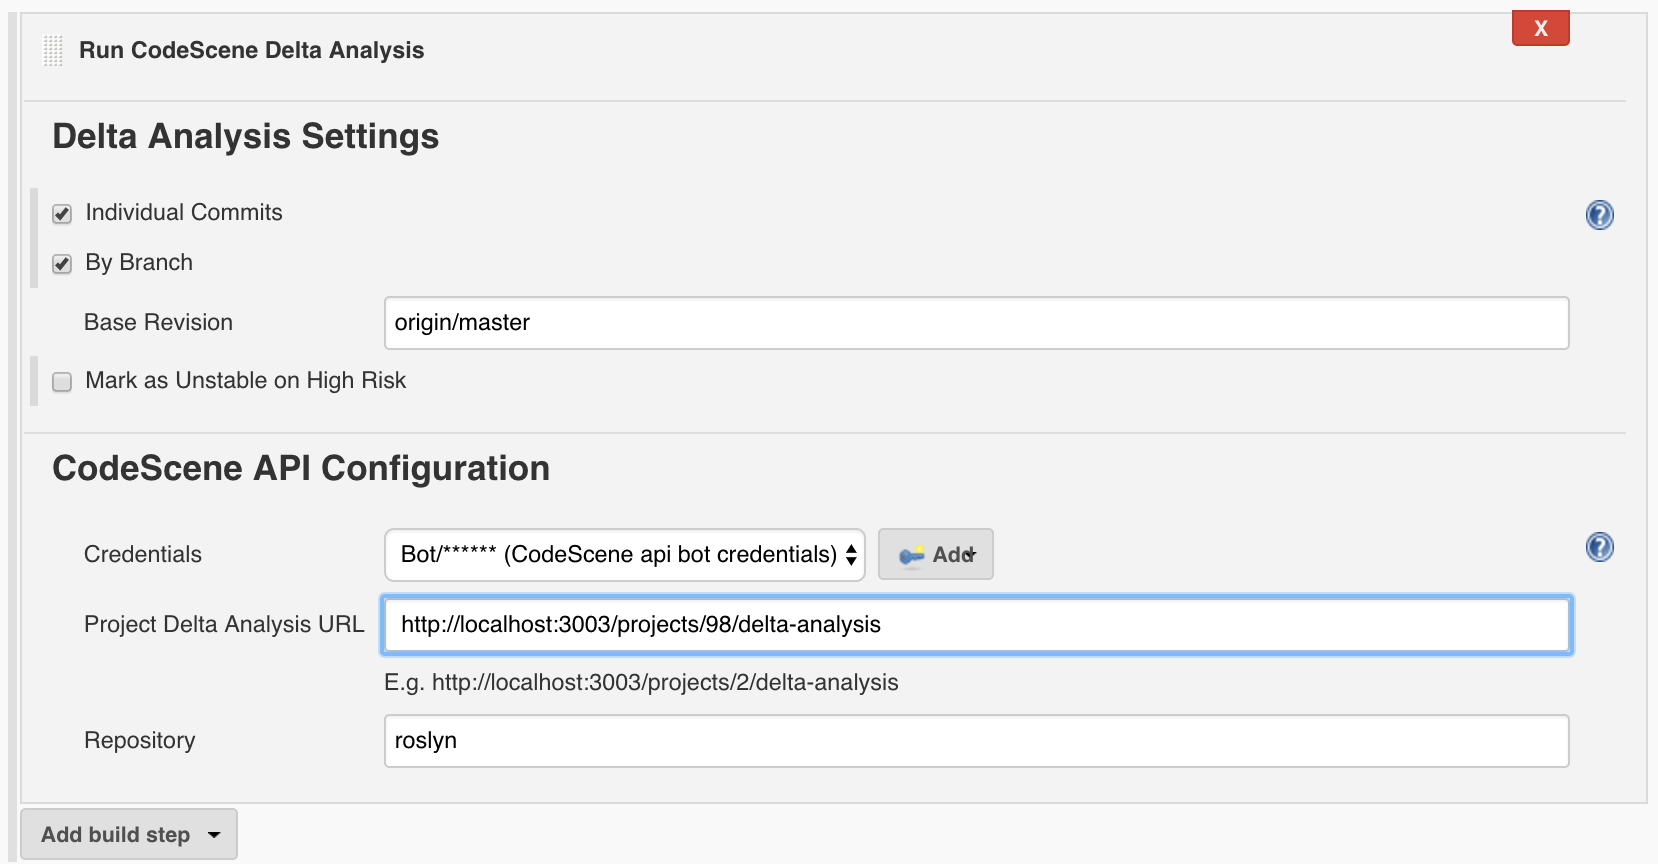
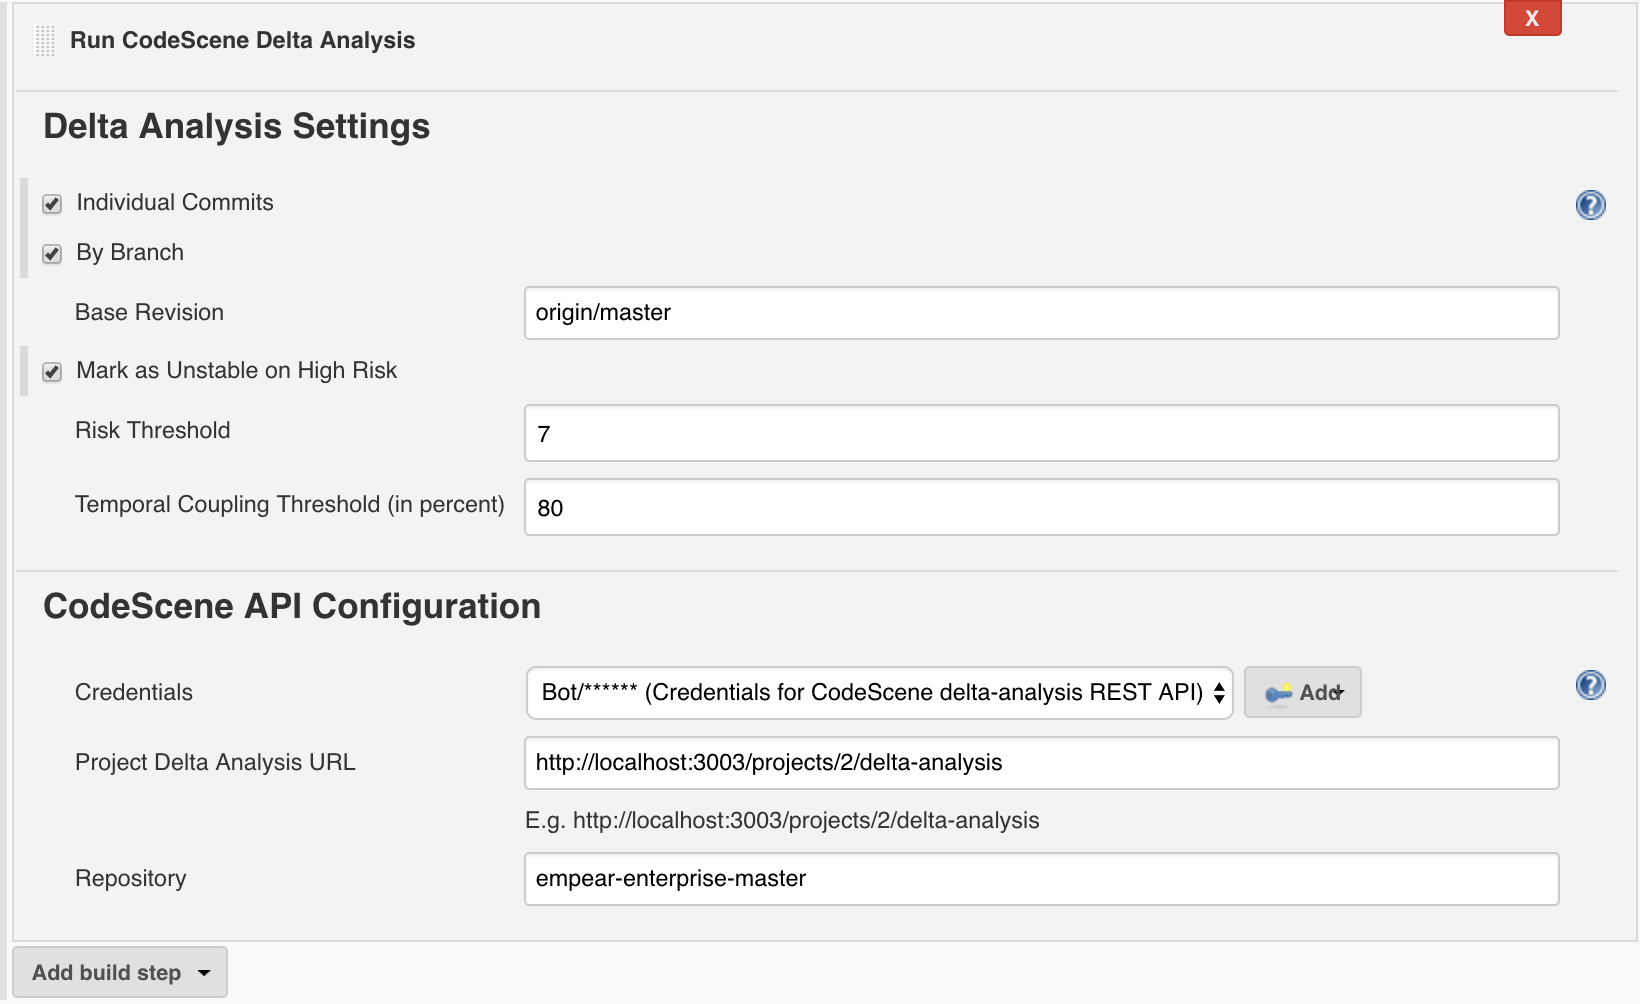
JENKINS-2: add "temporal coupling threshold" documentation.

Changed region(s): [[0.0, 0.0, 1.0, 1.0], [0.311, 0.2812, 0.4043, 0.3438], [0.2177, 0.8438, 0.2799, 0.875]]

diff --git a/README.md b/README.md
@@ -47,6 +47,11 @@ CodeScene gives you a number of options that controls the scope of the delta ana
 * *Individual Commits*: Check this option to run a delta analysis on each individual commit. When in doubt, make this your default setting.
 * *By Branch*: With this option, CodeScene runs a delta analysis on the difference between the branch you build and the one you provide as reference. Use this option if you want to analyse a whole pull request.
 
+You can also change the defaults for risk threshold and temporal coupling threshold
+
+* *Risk Threshold*: commits with risk equal or higher than this value will make a build unstable
+* *Temporal Coupling Threshold*: minimum temporal coupling for "Absence of Expected Change Pattern" warning
+
 The CodeScene API configuration section has to match the information specified inside CodeScene itself and retrievable from the analysis configuration.
 
 API Credentials should be added via [jenkins credentials plugin](https://wiki.jenkins-ci.org/display/JENKINS/Credentials+Plugin).
